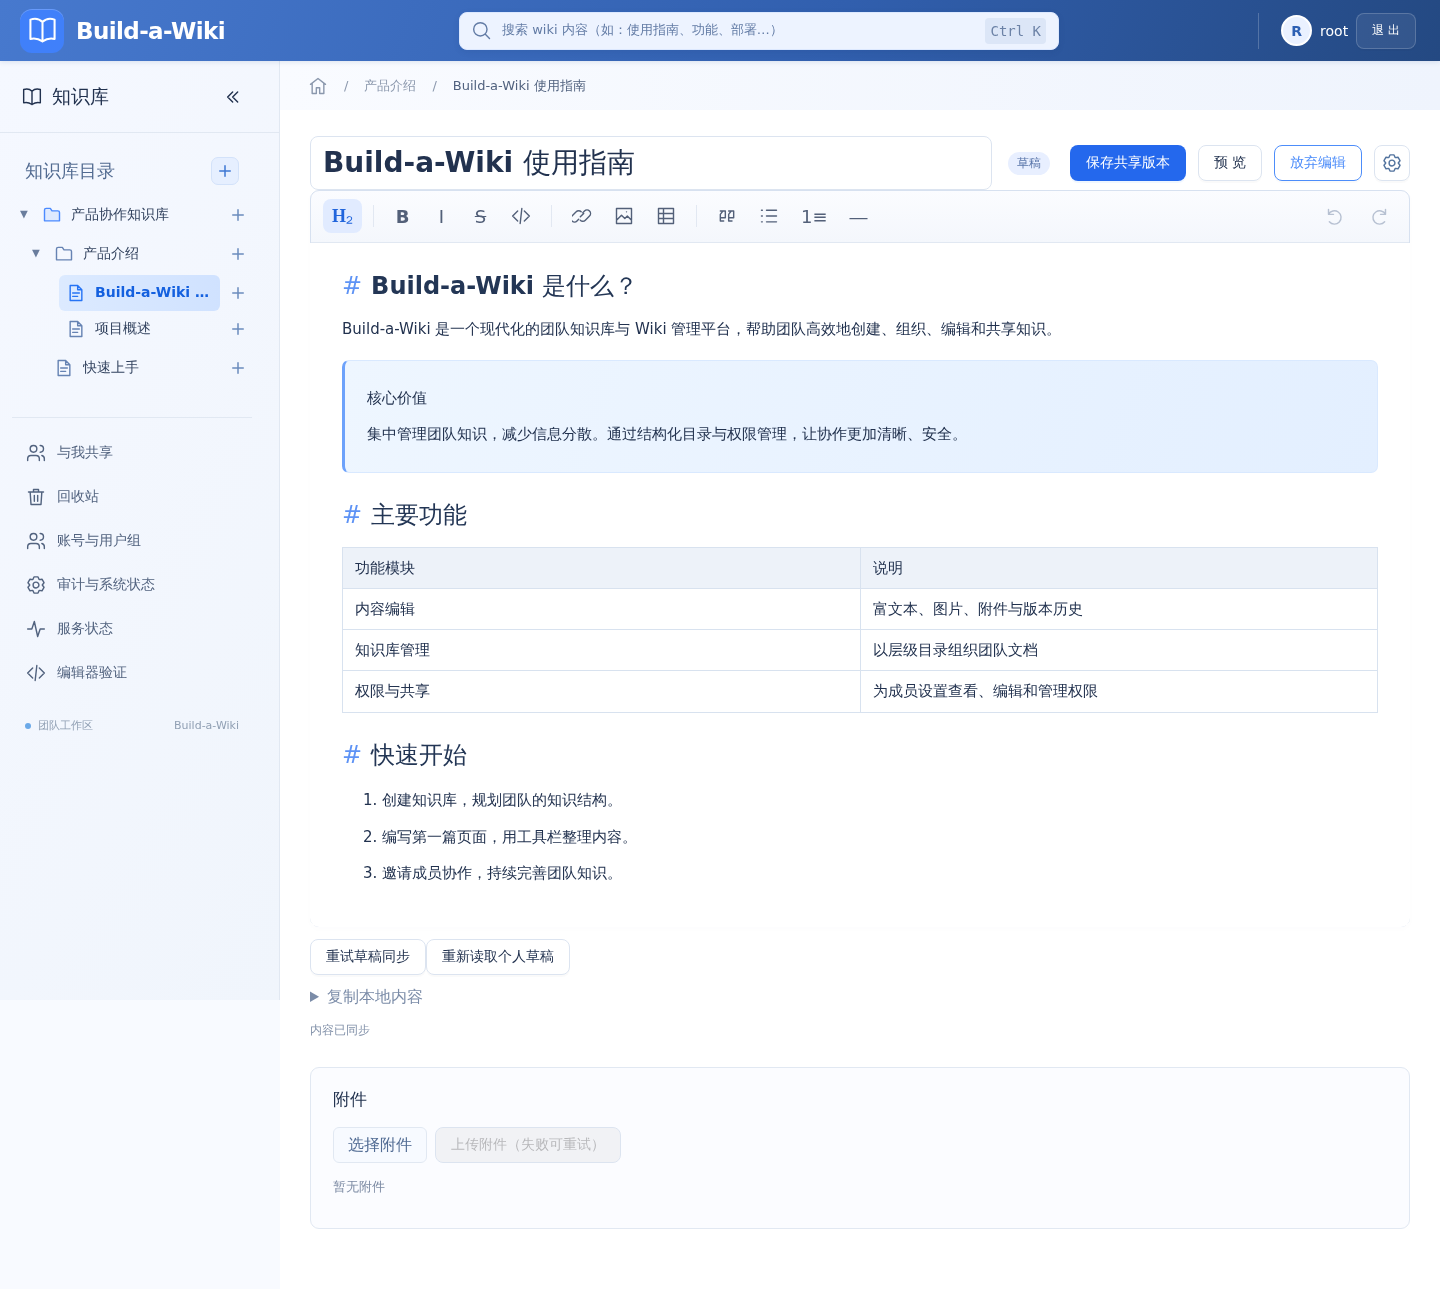
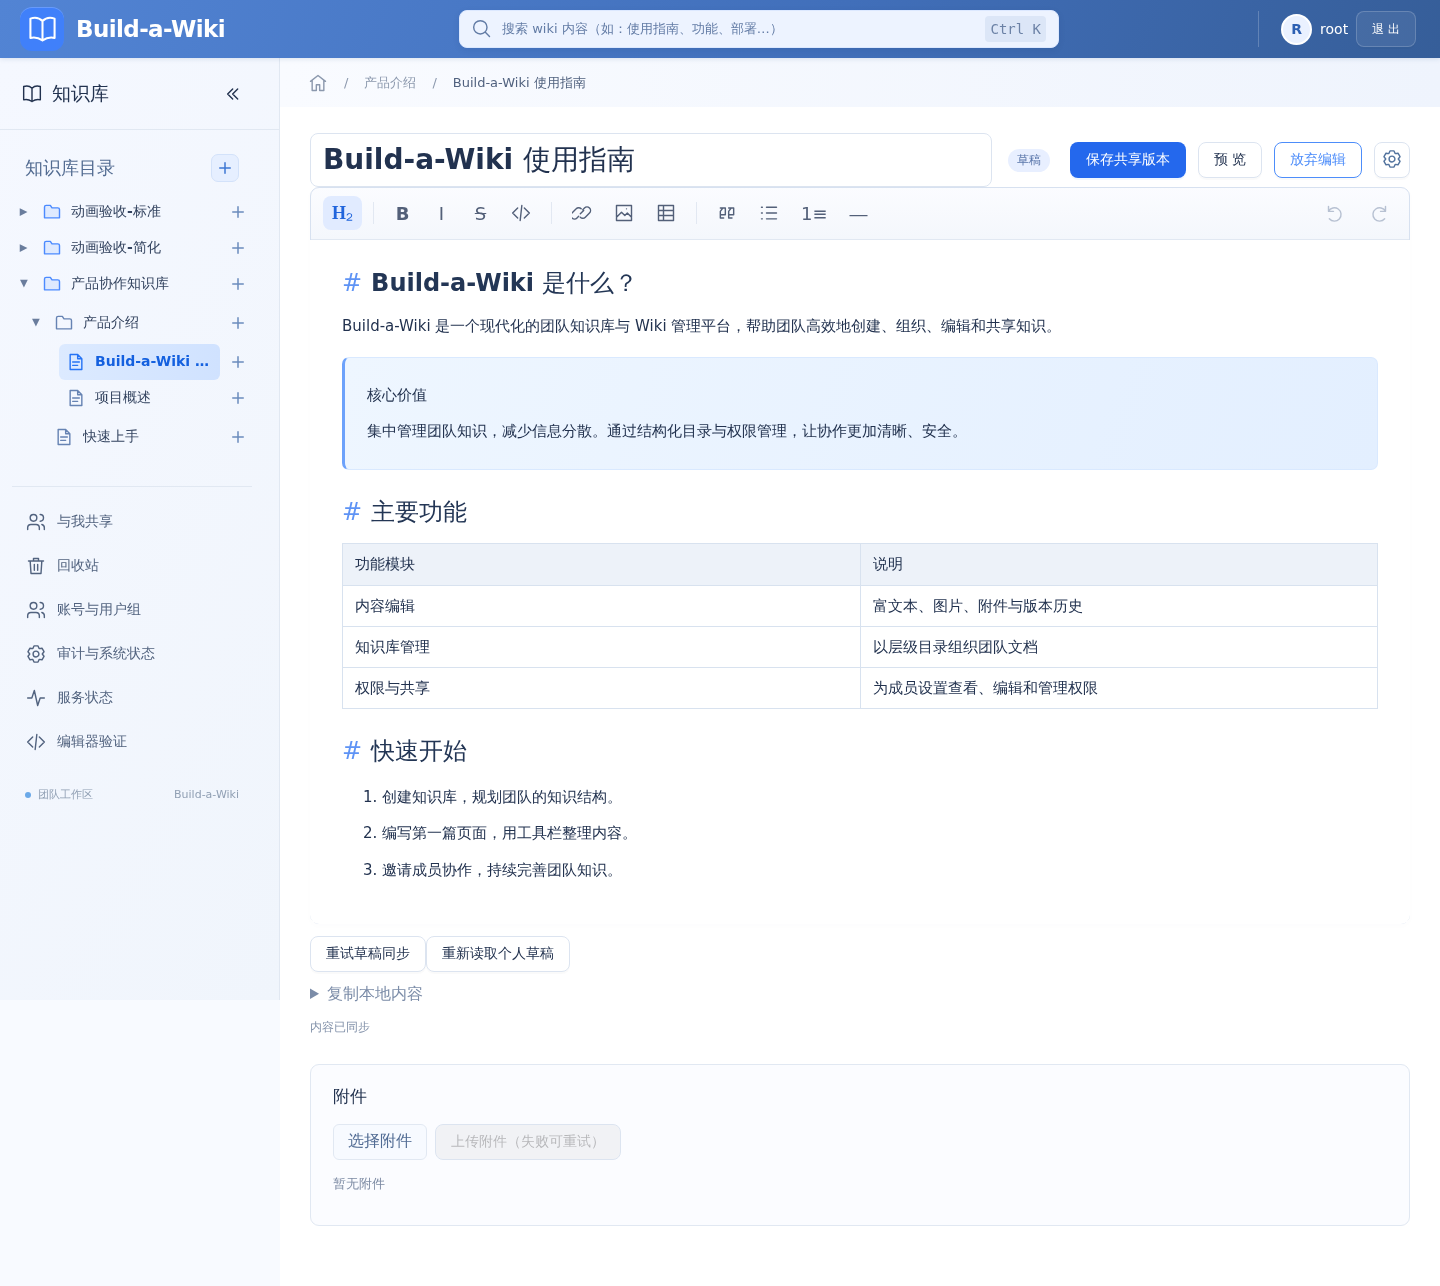
feat(ui): add resizable directory and lighten compact topbar

diff --git a/frontend/src/useSidebarResize.ts b/frontend/src/useSidebarResize.ts
@@ -1,0 +1,122 @@
+import React from "react";
+
+export const SIDEBAR_MIN_RATIO = 0.1;
+export const SIDEBAR_MAX_RATIO = 0.45;
+const MOBILE_BREAKPOINT = 760;
+const COMPACT_BREAKPOINT = 1100;
+const WIDE_BREAKPOINT = 1600;
+const DEFAULT_WIDTH = 280;
+const COMPACT_WIDTH = 230;
+const WIDE_WIDTH = 320;
+const KEYBOARD_STEP = 16;
+const PERCENT_SCALE = 100;
+const PRIMARY_BUTTON = 0;
+const RESIZE_EVENT = "resize";
+const SEPARATOR_LABEL = "调整目录宽度";
+const SEPARATOR_HINT =
+  "拖动调整目录宽度，或使用左右方向键；Home 最窄，End 最宽";
+const KEYS = {
+  LEFT: "ArrowLeft",
+  RIGHT: "ArrowRight",
+  MIN: "Home",
+  MAX: "End",
+} as const;
+
+const viewportWidth = () => document.documentElement.clientWidth;
+const clampWidth = (width: number, viewport: number) =>
+  Math.max(
+    viewport * SIDEBAR_MIN_RATIO,
+    Math.min(viewport * SIDEBAR_MAX_RATIO, width),
+  );
+const defaultWidth = (viewport: number) =>
+  viewport >= WIDE_BREAKPOINT
+    ? WIDE_WIDTH
+    : viewport <= COMPACT_BREAKPOINT
+      ? COMPACT_WIDTH
+      : DEFAULT_WIDTH;
+
+export function useSidebarResize(collapsed: boolean) {
+  const [viewport, setViewport] = React.useState(viewportWidth);
+  const [ratio, setRatio] = React.useState<number>();
+  const [resizing, setResizing] = React.useState(false);
+  const drag = React.useRef<
+    { id: number; x: number; width: number } | undefined
+  >(undefined);
+  const width = clampWidth(
+    ratio === undefined ? defaultWidth(viewport) : ratio * viewport,
+    viewport,
+  );
+  React.useEffect(() => {
+    const resize = () => setViewport(viewportWidth());
+    window.addEventListener(RESIZE_EVENT, resize);
+    return () => window.removeEventListener(RESIZE_EVENT, resize);
+  }, []);
+  const stop = () => {
+    drag.current = undefined;
+    setResizing(false);
+  };
+  React.useEffect(() => {
+    if (collapsed || viewport <= MOBILE_BREAKPOINT) stop();
+  }, [collapsed, viewport]);
+  const updateWidth = (value: number) => {
+    const available = viewportWidth();
+    setRatio(clampWidth(value, available) / available);
+  };
+  const separatorProps: React.HTMLAttributes<HTMLDivElement> = {
+    role: "separator",
+    tabIndex: 0,
+    "aria-label": SEPARATOR_LABEL,
+    "aria-orientation": "vertical",
+    "aria-valuemin": SIDEBAR_MIN_RATIO * PERCENT_SCALE,
+    "aria-valuemax": SIDEBAR_MAX_RATIO * PERCENT_SCALE,
+    "aria-valuenow": Math.round((width / viewport) * PERCENT_SCALE),
+    title: SEPARATOR_HINT,
+    hidden: collapsed || viewport <= MOBILE_BREAKPOINT,
+    onPointerDown: (event) => {
+      if (event.button !== PRIMARY_BUTTON) return;
+      event.preventDefault();
+      event.currentTarget.focus({ preventScroll: true });
+      event.currentTarget.setPointerCapture(event.pointerId);
+      drag.current = { id: event.pointerId, x: event.clientX, width };
+      setResizing(true);
+    },
+    onPointerMove: (event) => {
+      if (drag.current?.id === event.pointerId)
+        updateWidth(drag.current.width + event.clientX - drag.current.x);
+    },
+    onPointerUp: (event) => {
+      if (drag.current?.id !== event.pointerId) return;
+      updateWidth(drag.current.width + event.clientX - drag.current.x);
+      stop();
+      event.currentTarget.releasePointerCapture(event.pointerId);
+    },
+    onPointerCancel: stop,
+    onLostPointerCapture: stop,
+    onKeyDown: (event) => {
+      let next: number;
+      switch (event.key) {
+        case KEYS.LEFT:
+          next = width - KEYBOARD_STEP;
+          break;
+        case KEYS.RIGHT:
+          next = width + KEYBOARD_STEP;
+          break;
+        case KEYS.MIN:
+          next = viewport * SIDEBAR_MIN_RATIO;
+          break;
+        case KEYS.MAX:
+          next = viewport * SIDEBAR_MAX_RATIO;
+          break;
+        default:
+          return;
+      }
+      event.preventDefault();
+      updateWidth(next);
+    },
+  };
+  return {
+    resizing,
+    separatorProps,
+    style: { "--sidebar-width": `${width}px` } as React.CSSProperties,
+  };
+}

diff --git a/frontend/e2e/sidebar-resize.spec.ts b/frontend/e2e/sidebar-resize.spec.ts
@@ -1,0 +1,102 @@
+import { test, expect } from "@playwright/test";
+
+const DESKTOP_WIDTH = 1440;
+const RESIZED_VIEWPORT = 1000;
+const MOBILE_WIDTH = 390;
+const VIEWPORT_HEIGHT = 900;
+const MIN_RATIO = 0.1;
+const MAX_RATIO = 0.45;
+const TOPBAR_HEIGHT = 58;
+const KEYBOARD_STEP = 16;
+const EPSILON = 1;
+const TARGET_WIDTH = 420;
+const EXPECTED_COLLAPSED_WIDTH = 60;
+const ADMIN = {
+  id: "resize-user",
+  username: "root",
+  display_name: "管理员",
+  is_system_admin: true,
+  csrf_token: "test",
+};
+
+test("sidebar divider clamps width, preserves it across navigation and supports keyboard", async ({
+  page,
+}) => {
+  await page.route("**/api/v1/**", async (route) => {
+    const pathname = new URL(route.request().url()).pathname;
+    await route.fulfill({
+      json: pathname.endsWith("/me")
+        ? ADMIN
+        : pathname.endsWith("/recent-visits")
+          ? []
+          : { items: [], next_cursor: null },
+    });
+  });
+  await page.setViewportSize({ width: DESKTOP_WIDTH, height: VIEWPORT_HEIGHT });
+  await page.goto("/");
+  const sidebar = page.getByRole("complementary", { name: "知识库导航" });
+  const divider = page.getByRole("separator", { name: "调整目录宽度" });
+  const width = () =>
+    sidebar.evaluate((el) => el.getBoundingClientRect().width);
+  const expectWidth = (expected: number) =>
+    expect
+      .poll(async () => Math.abs((await width()) - expected))
+      .toBeLessThan(EPSILON);
+  await expect(divider).toBeVisible();
+  expect(
+    await page
+      .locator(".topbar")
+      .evaluate((el) => el.getBoundingClientRect().height),
+  ).toBe(TOPBAR_HEIGHT);
+  expect(await sidebar.evaluate((el) => el.getBoundingClientRect().top)).toBe(
+    TOPBAR_HEIGHT,
+  );
+  const dragTo = async (target: number) => {
+    const rect = (await divider.boundingBox())!;
+    const start = rect.x + rect.width / 2;
+    const initial = await width();
+    await page.mouse.move(start, rect.y + 100);
+    await page.mouse.down();
+    await page.mouse.move(start + target - initial, rect.y + 100, { steps: 8 });
+    await page.mouse.up();
+    await expect(page.locator(".shell")).not.toHaveClass(/sidebar-resizing/);
+  };
+  await dragTo(TARGET_WIDTH);
+  await expectWidth(TARGET_WIDTH);
+  await sidebar.getByRole("link", { name: "与我共享", exact: true }).click();
+  await expectWidth(TARGET_WIDTH);
+  await dragTo(DESKTOP_WIDTH);
+  await expectWidth(DESKTOP_WIDTH * MAX_RATIO);
+  await expect(divider).toHaveAttribute("aria-valuenow", "45");
+  await dragTo(0);
+  await expectWidth(DESKTOP_WIDTH * MIN_RATIO);
+  await expect(divider).toHaveAttribute("aria-valuenow", "10");
+  await divider.focus();
+  await divider.press("ArrowRight");
+  await expectWidth(DESKTOP_WIDTH * MIN_RATIO + KEYBOARD_STEP);
+  await divider.press("End");
+  await expectWidth(DESKTOP_WIDTH * MAX_RATIO);
+  await page.setViewportSize({
+    width: RESIZED_VIEWPORT,
+    height: VIEWPORT_HEIGHT,
+  });
+  await expectWidth(RESIZED_VIEWPORT * MAX_RATIO);
+  await page.getByRole("button", { name: "收起侧栏", exact: true }).click();
+  await expect(divider).not.toBeVisible();
+  await expectWidth(EXPECTED_COLLAPSED_WIDTH);
+  await page.getByRole("button", { name: "展开侧栏", exact: true }).click();
+  await expectWidth(RESIZED_VIEWPORT * MAX_RATIO);
+  await expect(divider).toBeVisible();
+  await divider.press("Home");
+  await expectWidth(RESIZED_VIEWPORT * MIN_RATIO);
+  await page.setViewportSize({ width: MOBILE_WIDTH, height: VIEWPORT_HEIGHT });
+  await expect(divider).not.toBeVisible();
+  await expectWidth(MOBILE_WIDTH);
+  await expect
+    .poll(() =>
+      page.evaluate(
+        () => document.documentElement.scrollWidth <= window.innerWidth,
+      ),
+    )
+    .toBe(true);
+});

diff --git a/frontend/src/style.css b/frontend/src/style.css
@@ -6,7 +6,16 @@
   --blue: #2468ed;
   --muted: #7d8ba4;
   --border: #e1e8f2;
-  --topbar-height: 61.2px;
+  --topbar-height: 58px;
+  --topbar-gradient-angle: 110deg;
+  --topbar-blue-start: #5284d4;
+  --topbar-blue-middle: #416fba;
+  --topbar-blue-end: #365e99;
+  --topbar-gradient-middle: 58%;
+  --sidebar-resizer-width: 8px;
+  --sidebar-resizer-line-width: 2px;
+  --sidebar-resizer-color: #78a2e3;
+  --sidebar-resizer-active-color: #3677df;
 }
 * {
   box-sizing: border-box;
@@ -42,7 +51,12 @@ svg {
   align-items: center;
   gap: 32px;
   padding: 0 24px 0 20px;
-  background: linear-gradient(110deg, #4779ce 0%, #315fae 58%, #244982 100%);
+  background: linear-gradient(
+    var(--topbar-gradient-angle),
+    var(--topbar-blue-start),
+    var(--topbar-blue-middle) var(--topbar-gradient-middle),
+    var(--topbar-blue-end)
+  );
   color: #fff;
   box-shadow: 0 1px 5px #163f7620;
 }
@@ -1503,4 +1517,40 @@ summary:focus-visible {
   .system-status-card dd {
     font-size: 24px;
   }
+}
+
+.sidebar-resizer {
+  position: absolute;
+  top: 0;
+  right: 0;
+  bottom: 0;
+  width: var(--sidebar-resizer-width);
+  cursor: col-resize;
+  touch-action: none;
+  z-index: 1;
+}
+.sidebar-resizer::after {
+  content: "";
+  position: absolute;
+  top: 0;
+  bottom: 0;
+  right: 0;
+  width: var(--sidebar-resizer-line-width);
+  background: transparent;
+}
+.sidebar-resizer:hover::after {
+  background: var(--sidebar-resizer-color);
+}
+.sidebar-resizer:focus-visible {
+  outline: var(--sidebar-resizer-line-width) solid
+    var(--sidebar-resizer-active-color);
+  outline-offset: calc(-1 * var(--sidebar-resizer-line-width));
+}
+.sidebar-resizing {
+  transition: none;
+  cursor: col-resize;
+  user-select: none;
+}
+.sidebar-resizing .sidebar-resizer::after {
+  background: var(--sidebar-resizer-active-color);
 }

diff --git a/frontend/src/Workspace.tsx b/frontend/src/Workspace.tsx
@@ -1,4 +1,5 @@
 import React from "react";
+import { useSidebarResize } from "./useSidebarResize";
 import { captureDialogTrigger } from "./useDialogFocusReturn";
 import { Link, NavLink, useLocation, useNavigate } from "react-router-dom";
 import { useQuery, useQueryClient } from "@tanstack/react-query";
@@ -34,6 +35,7 @@ export default function Workspace({ children }: { children: React.ReactNode }) {
     return () => clearTimeout(timer);
   }, [createdNode]);
   const [collapsed, setCollapsed] = React.useState(false);
+  const sidebarResize = useSidebarResize(collapsed);
   const [createLibrary, setCreateLibrary] = React.useState(false);
   const [createTarget, setCreateTarget] = React.useState<CreatePageTarget>();
   const [query, setQuery] = React.useState("");
@@ -130,7 +132,8 @@ export default function Workspace({ children }: { children: React.ReactNode }) {
   return (
     <CreatedNodeContext.Provider value={createdNode}>
       <div
-        className={`shell ${collapsed ? "sidebar-collapsed" : ""}`}
+        className={`shell ${collapsed ? "sidebar-collapsed" : ""} ${sidebarResize.resizing ? "sidebar-resizing" : ""}`}
+        style={sidebarResize.style}
         onClickCapture={captureDialogTrigger}
       >
         <header className="topbar">
@@ -304,6 +307,7 @@ export default function Workspace({ children }: { children: React.ReactNode }) {
               团队工作区<span>Build-a-Wiki</span>
             </footer>
           </div>
+          <div className="sidebar-resizer" {...sidebarResize.separatorProps} />
         </aside>
         {createLibrary && (
           <CreateLibraryDialog onClose={() => setCreateLibrary(false)} />

diff --git a/docs/UI_REDESIGN.md b/docs/UI_REDESIGN.md
@@ -155,3 +155,11 @@ docker compose --env-file .data/compose-test.env -p wiki-acceptance \
 ## 紧凑顶部栏
 
 桌面顶栏由 68px 缩至 61.2px（90%），通过 `--topbar-height` 同步控制网格行高、侧栏吸顶偏移和可滚动高度。品牌字号由 25px 调至 23px，Logo、头像及搜索框同步缩小；移动端收紧双行间距与图标尺寸，保留搜索框和账号操作。生产构建及状态卡片、目录稳定性、响应式 UI 三项浏览器回归通过（27.5 秒），三种尺寸截图已更新。本地前端镜像 `7c838d5ad2fd`，无新增依赖。
+
+## 58px 顶栏与可调整目录宽度
+
+顶栏高度统一为 58px，渐变蓝色整体调浅；高度、渐变颜色与分割线尺寸均引用 CSS 自定义属性。桌面目录右侧增加拖动分割线，使用 Pointer Capture 保证指针移出命中区域后仍可连续拖动；拖动时关闭网格宽度过渡，避免跟手延迟和正文选中。
+
+`useSidebarResize` 使用具名常量定义最小 10%、最大 45%、默认宽度、响应式断点和键盘步长。用户调整后的比例在切换页面、折叠再展开和窗口缩放时保留，刷新页面恢复默认宽度。分割线支持左右方向键以 16px 调整、Home/End 到达边界，并提供 separator 语义与当前比例。手机端保持上下布局，不显示左右拖动分割线；折叠侧栏也隐藏分割线。
+
+新增浏览器测试覆盖实际拖动、10%/45% 上下限、导航保持、键盘操作、窗口变化、折叠恢复及手机布局，并断言顶栏与侧栏偏移均为 58px。六项浏览器回归通过（40.6 秒），包含正常/减少动效、目录稳定性、状态卡片与响应式 UI；生产构建通过，三种尺寸截图已更新。本地镜像 `c23bacbe3b48`，无新增依赖。

diff --git a/docs/CHECKLIST.md b/docs/CHECKLIST.md
@@ -122,3 +122,4 @@ A组任务已完成并记录校验小结。复现命令和结果详见 VALIDATIO
 | 统一六齿齿轮 | ✔ | 公共 Icon 的 settings 图形统一为对称六齿，页面设置、审计导航与维护状态卡片共用同一定义，无新增依赖。 |
 | 创建加号焦点恢复 | ✔ | 复现鼠标打开后回车提交的焦点框残留；记录入口操作来源，保留键盘提示并清除鼠标恢复轮廓；修复减少动态效果下焦点丢失，正常/简化动效及 UI 回归通过，失焦逐帧无闪框，无新增依赖。 |
 | 顶栏高度收紧 | ✔ | 桌面高度调整为原来的 90%，同步缩小品牌、搜索框及头像，并统一侧栏偏移；移动端适配、构建和三项浏览器回归通过，无新增依赖。 |
+| 顶栏与目录宽度调节 | ✔ | 顶栏 58px 并调浅蓝色；新增可拖动/键盘操作分割线，目录宽度限制为视口 10%～45%，导航与折叠保留比例；数值使用具名常量，六项浏览器回归与生产构建通过，无新增依赖。 |
